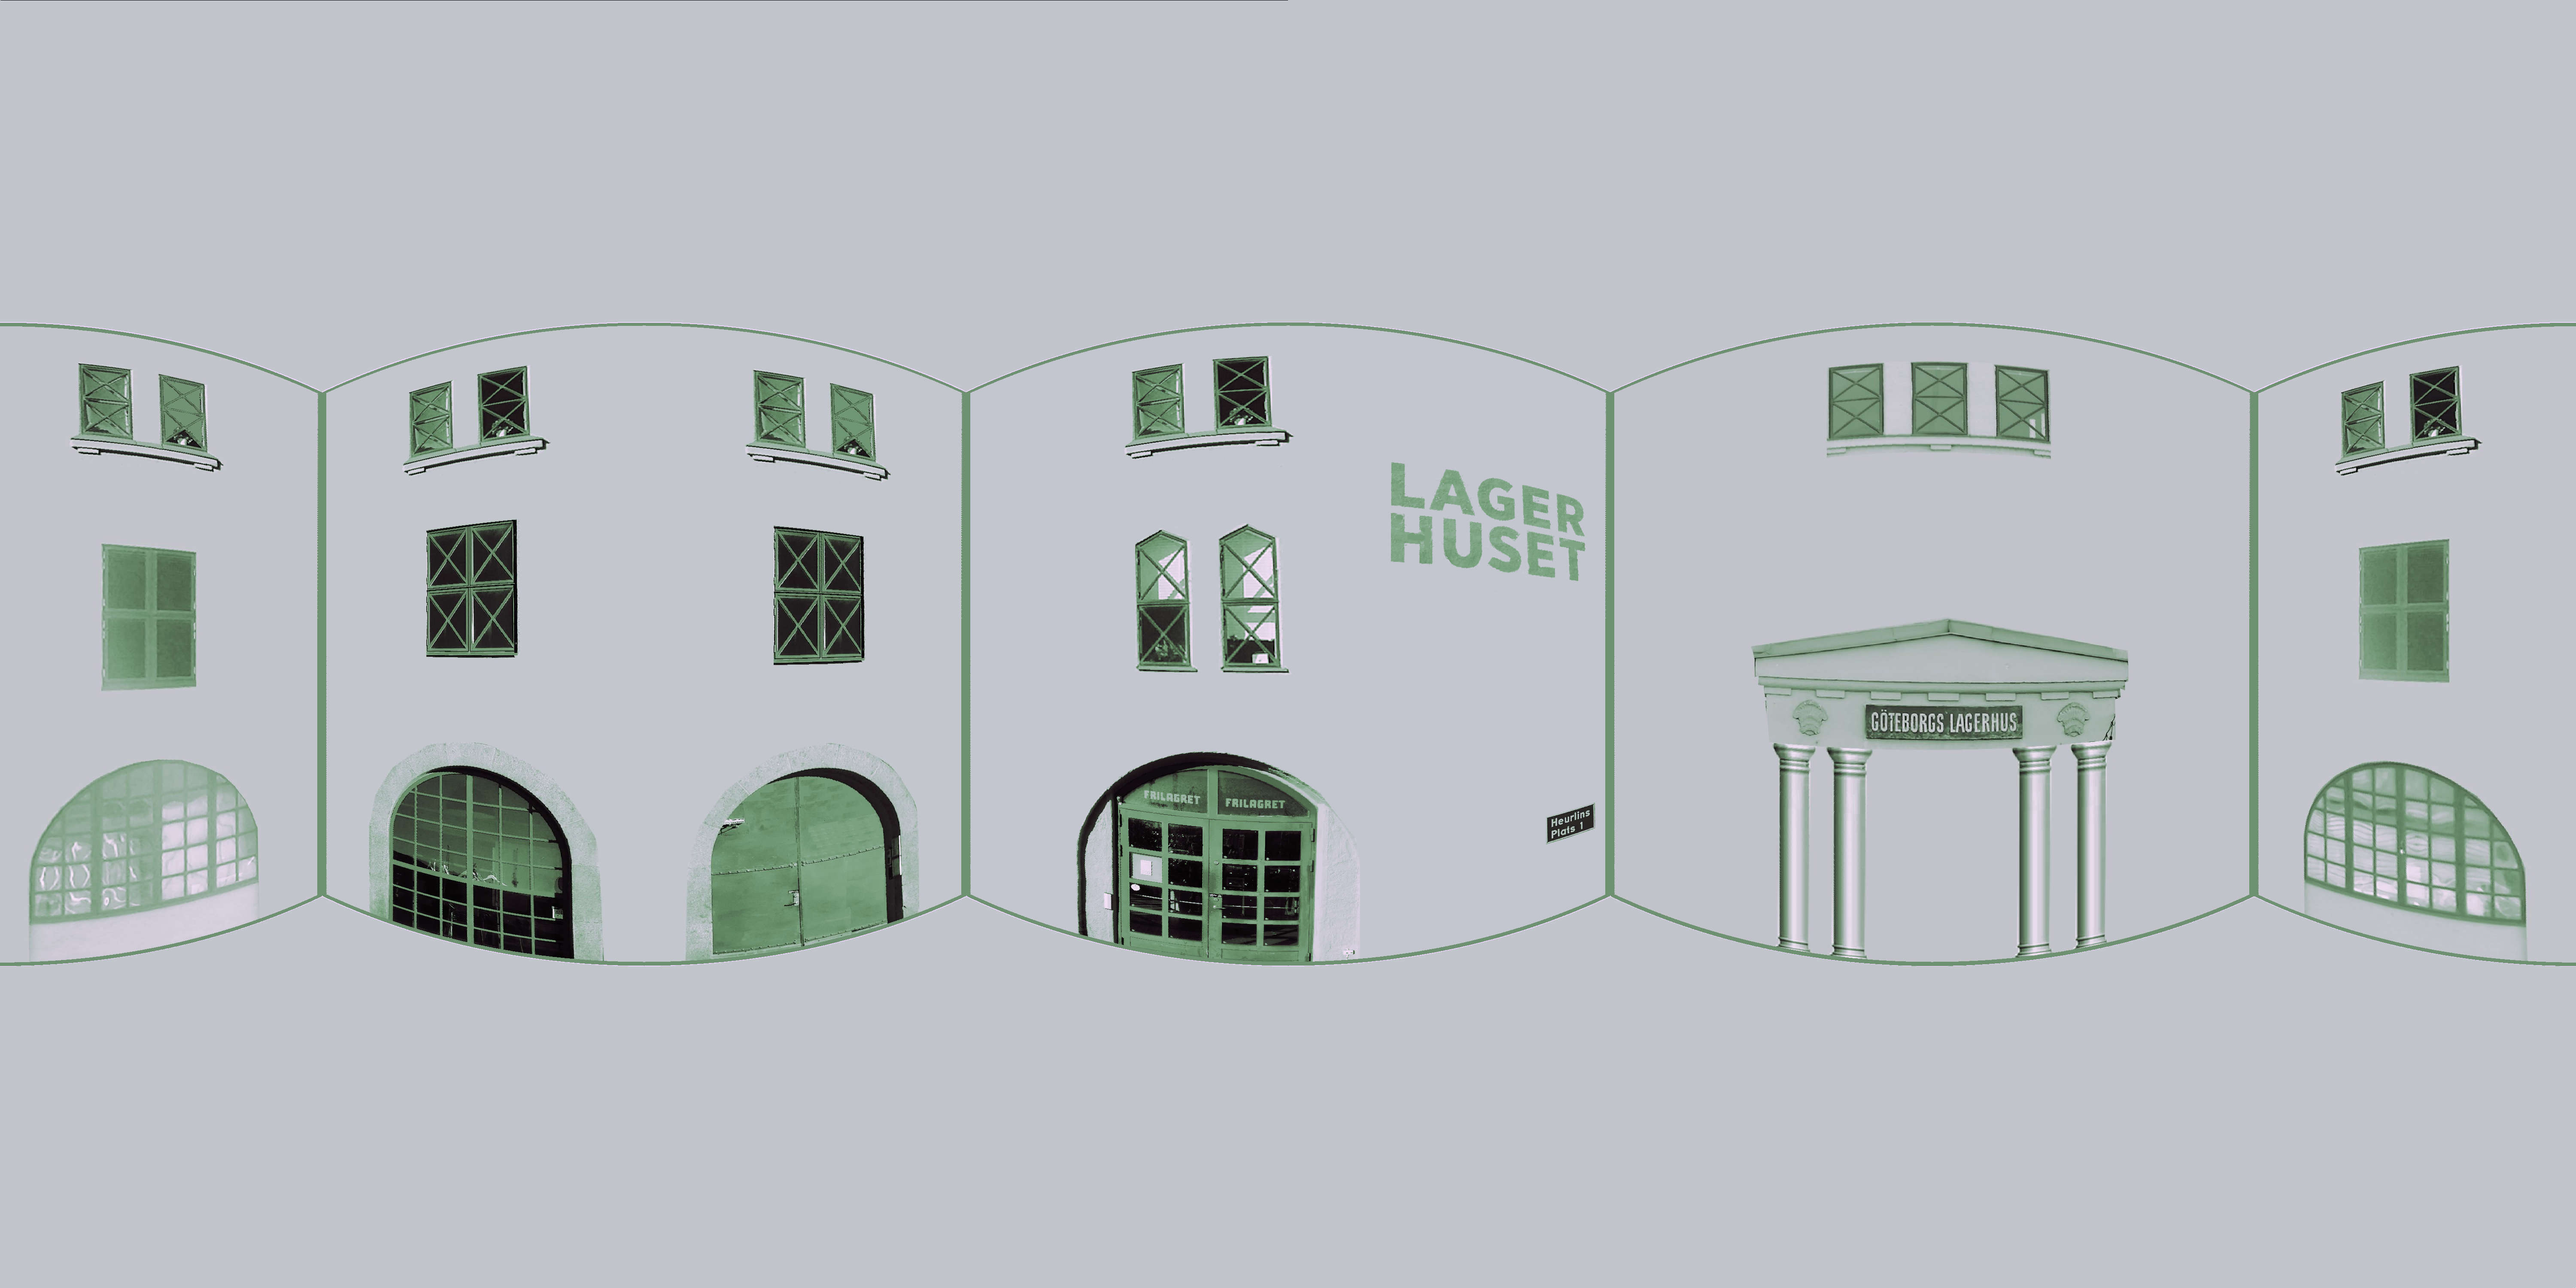
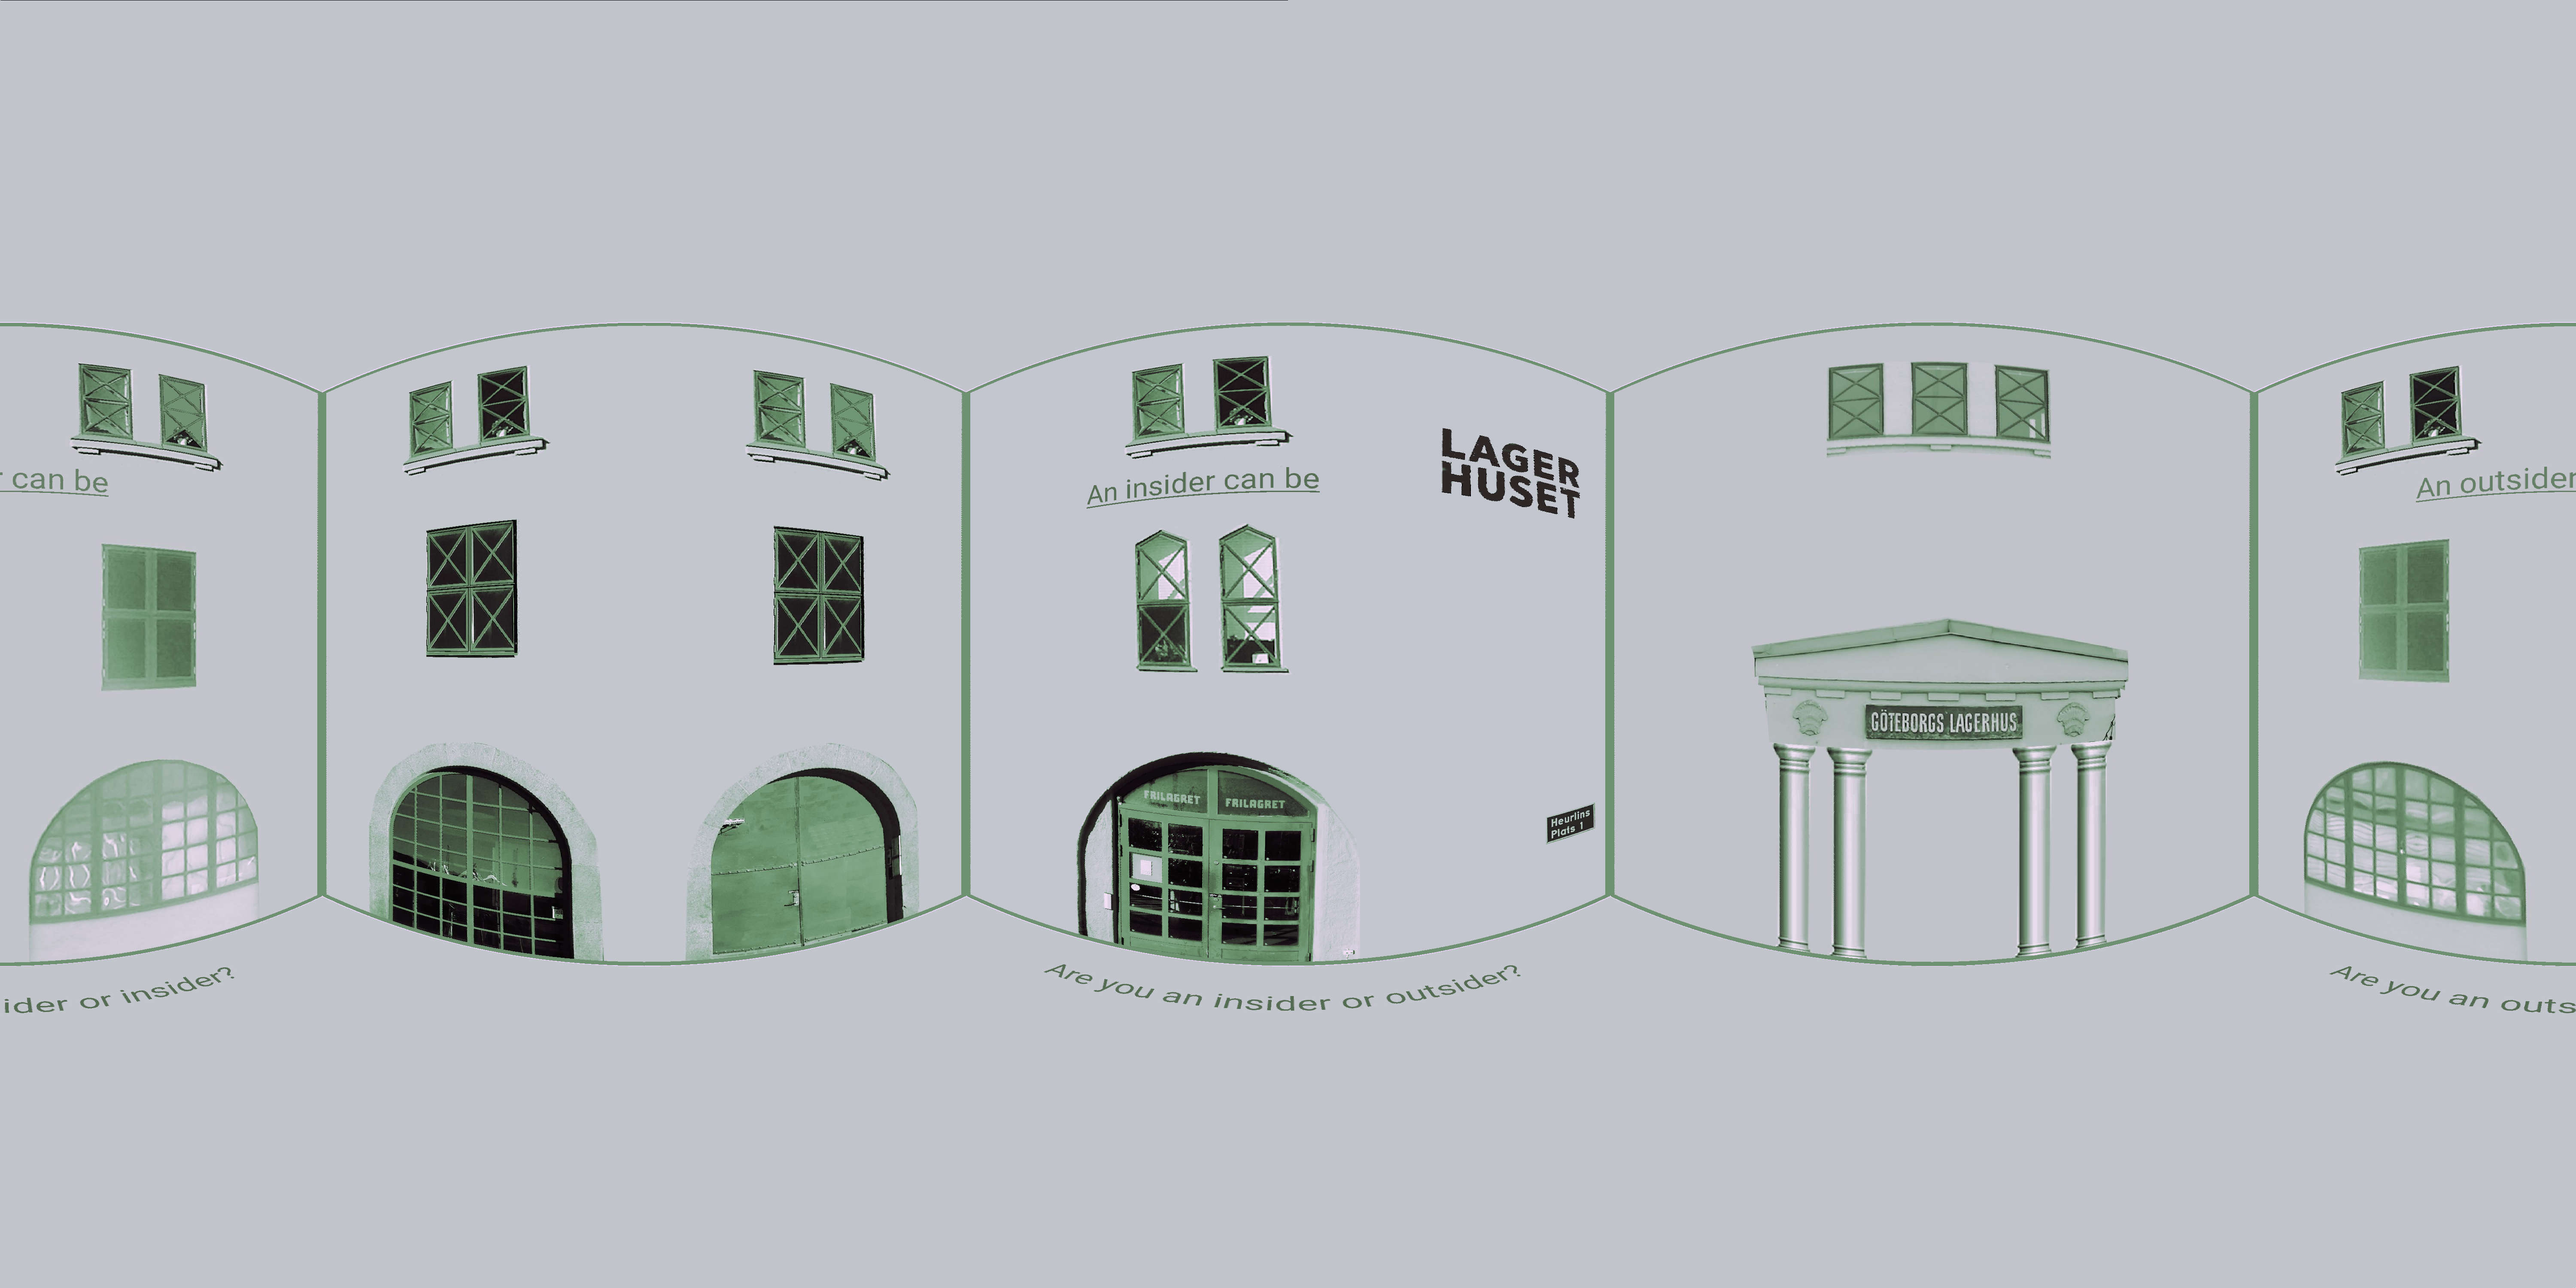
Add new backdrop and lottie files

diff --git a/src/client/scripts/periphery.js b/src/client/scripts/periphery.js
@@ -7,7 +7,7 @@ var animation = bodymovin.loadAnimation({
   renderer: 'svg',
   loop: false,
   autoplay: true,
-  path: './resources/animations/periphery.json',
+  path: './resources/animations/insider.json',
   initialSegment: [1,700]
 })
 
